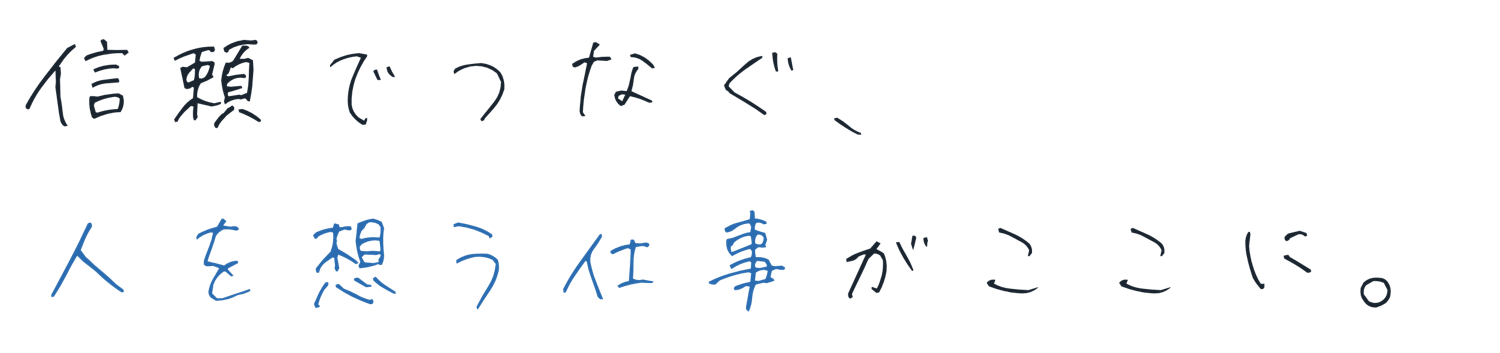
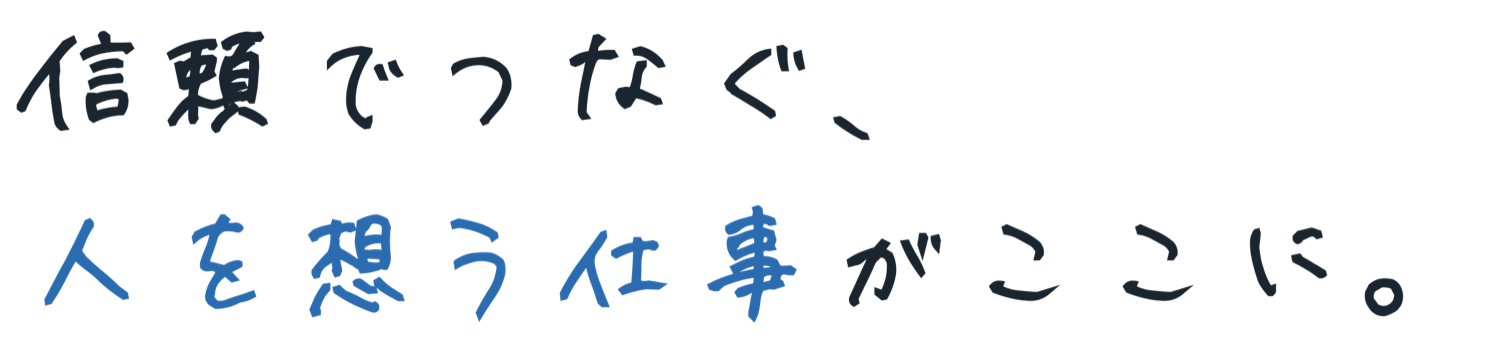
手書きタイトルを太く・文字間を詰め・大きく調整

diff --git a/render_title.swift b/render_title.swift
@@ -16,7 +16,13 @@ let accent = NSColor(srgbRed: 0x2b/255.0, green: 0x6c/255.0, blue: 0xb0/255.0, a
 func makeLine(_ parts: [(String, NSColor)]) -> CTLine {
     let s = NSMutableAttributedString()
     for (text, color) in parts {
-        s.append(NSAttributedString(string: text, attributes: [.font: font, .foregroundColor: color]))
+        s.append(NSAttributedString(string: text, attributes: [
+            .font: font,
+            .foregroundColor: color,
+            .strokeColor: color,
+            .strokeWidth: -4.0,            // 太く（塗り＋輪郭）
+            .kern: -fontSize * 0.07,       // 文字間を詰める
+        ]))
     }
     return CTLineCreateWithAttributedString(s)
 }
@@ -29,8 +35,8 @@ func bounds(_ line: CTLine) -> (w: CGFloat, asc: CGFloat, desc: CGFloat) {
     return (CGFloat(w), a, d)
 }
 let b1 = bounds(line1), b2 = bounds(line2)
-let pad: CGFloat = fontSize * 0.16
-let gap: CGFloat = fontSize * 0.34
+let pad: CGFloat = fontSize * 0.10
+let gap: CGFloat = fontSize * 0.26
 let lineH = b1.asc + b1.desc
 let imgW = ceil(max(b1.w, b2.w) + pad * 2)
 let imgH = ceil(lineH * 2 + gap + pad * 2)

diff --git a/css/style.css b/css/style.css
@@ -208,9 +208,9 @@ ul { margin: 0; padding: 0; list-style: none; }
 }
 .hero-grid {
   position: relative; z-index: 2;
-  display: grid; grid-template-columns: 1.08fr .92fr; gap: 32px; align-items: center;
+  display: grid; grid-template-columns: 1.16fr .84fr; gap: 30px; align-items: center;
 }
-.hero-inner { max-width: 640px; }
+.hero-inner { max-width: 700px; }
 .hero-figure { position: relative; margin: 0; }
 .hero-figure img { width: 100%; height: auto; display: block; }
 
@@ -242,7 +242,7 @@ ul { margin: 0; padding: 0; list-style: none; }
 .hero h1 .accent { color: var(--blue-700); }
 /* 手書きタイトル（えり字・画像） */
 .hero h1.hero-title-img { margin: 0 0 30px; }
-.hero h1.hero-title-img img { display: block; width: 100%; max-width: 610px; height: auto; }
+.hero h1.hero-title-img img { display: block; width: 100%; max-width: 700px; height: auto; }
 .hero p.lead {
   font-size: 1.1rem; color: var(--text); max-width: 560px; margin: 0 0 38px;
   /* 日本語を自然な区切りで折り返し、行末の孤立文字を防ぐ */
